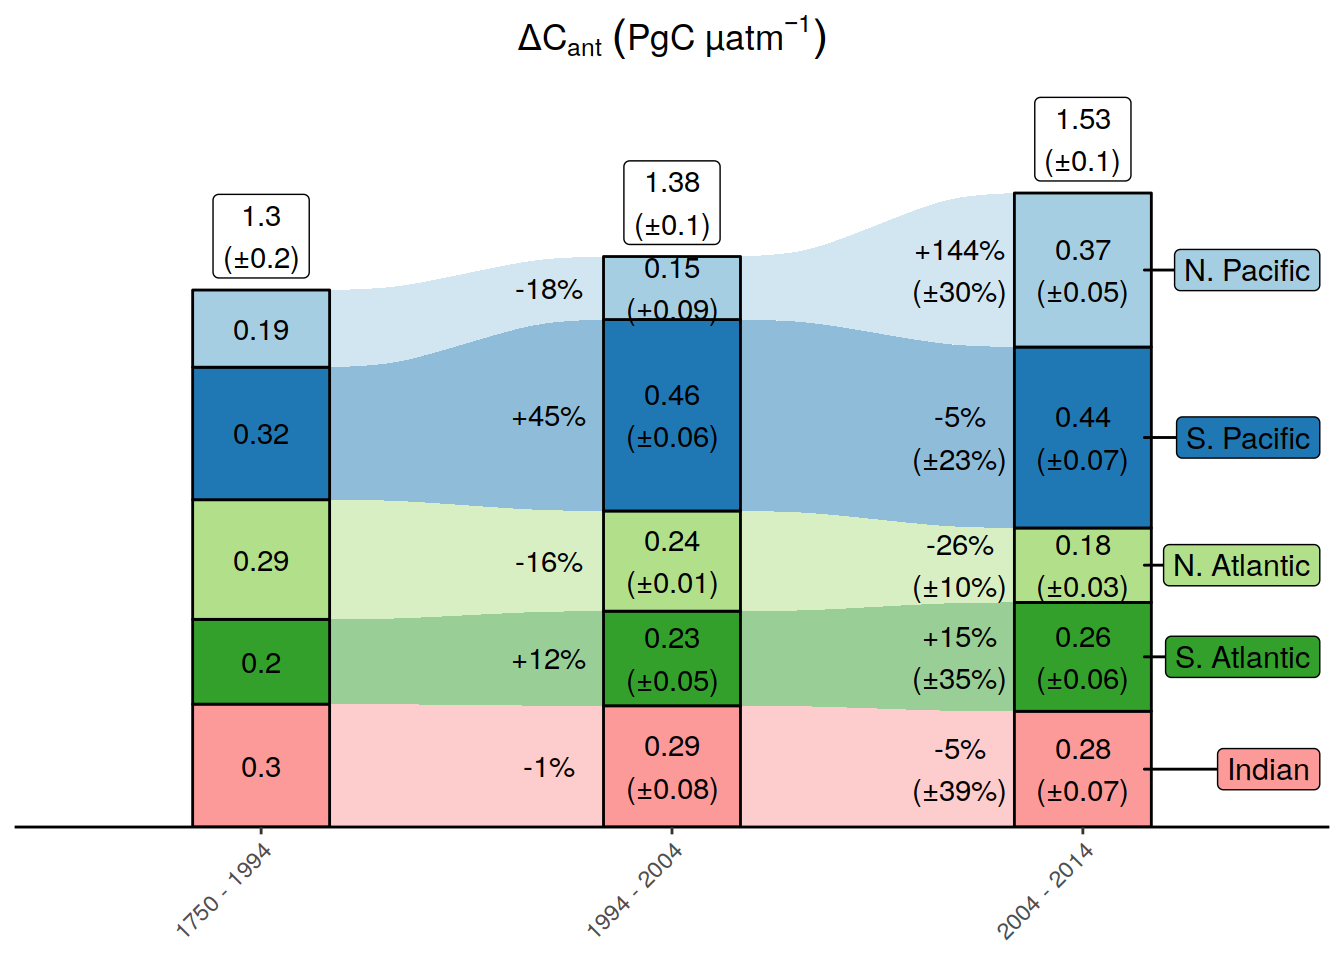
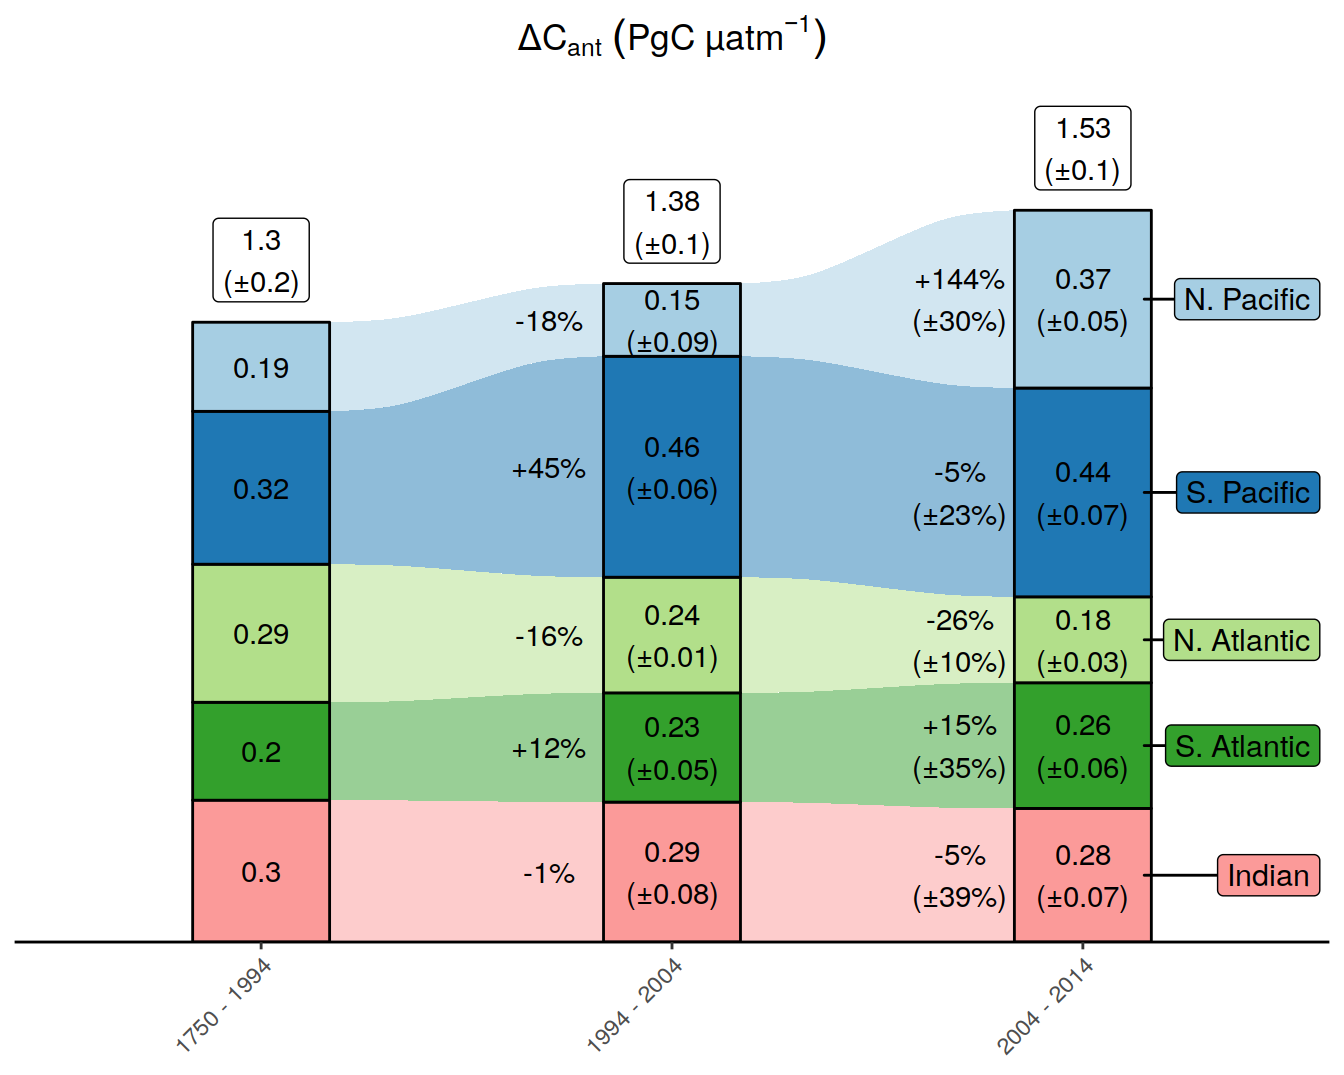
Build site.

diff --git a/docs/results_publication.html b/docs/results_publication.html
@@ -673,16 +673,16 @@ This reproducible <a href="https://rmarkdown.rstudio.com">R Markdown</a> analysi
 <div class="panel panel-default">
 <div class="panel-heading">
 <p class="panel-title">
-<a data-toggle="collapse" data-parent="#workflowr-checks" href="#strongRepositoryversionstrongahrefhttpsgithubcomjensdanielmuelleremlrobsanalysistree325da3a7626b6483c934242d5a44fa742d830be0targetblank325da3aa"> <span class="glyphicon glyphicon-ok text-success" aria-hidden="true"></span> <strong>Repository version:</strong> <a href="https://github.com/jens-daniel-mueller/emlr_obs_analysis/tree/325da3a7626b6483c934242d5a44fa742d830be0" target="_blank">325da3a</a> </a>
+<a data-toggle="collapse" data-parent="#workflowr-checks" href="#strongRepositoryversionstrongahrefhttpsgithubcomjensdanielmuelleremlrobsanalysistree6afd7b1cd820473a02e2bf3b345e03d2ffa11e44targetblank6afd7b1a"> <span class="glyphicon glyphicon-ok text-success" aria-hidden="true"></span> <strong>Repository version:</strong> <a href="https://github.com/jens-daniel-mueller/emlr_obs_analysis/tree/6afd7b1cd820473a02e2bf3b345e03d2ffa11e44" target="_blank">6afd7b1</a> </a>
 </p>
 </div>
[2 lines of base64/hex data omitted]
 <div class="panel-body">
 <p>
 Great! You are using Git for version control. Tracking code development and connecting the code version to the results is critical for reproducibility.
 </p>
 <p>
-The results in this page were generated with repository version <a href="https://github.com/jens-daniel-mueller/emlr_obs_analysis/tree/325da3a7626b6483c934242d5a44fa742d830be0" target="_blank">325da3a</a>. See the <em>Past versions</em> tab to see a history of the changes made to the R Markdown and HTML files.
+The results in this page were generated with repository version <a href="https://github.com/jens-daniel-mueller/emlr_obs_analysis/tree/6afd7b1cd820473a02e2bf3b345e03d2ffa11e44" target="_blank">6afd7b1</a>. See the <em>Past versions</em> tab to see a history of the changes made to the R Markdown and HTML files.
 </p>
 <p>
 Note that you need to be careful to ensure that all relevant files for the analysis have been committed to Git prior to generating the results (you can use <code>wflow_publish</code> or <code>wflow_git_commit</code>). workflowr only checks the R Markdown file, but you know if there are other scripts or data files that it depends on. Below is the status of the Git repository when the results were generated:
@@ -732,6 +732,40 @@ Message
 </tr>
 </thead>
 <tbody>
+<tr>
+<td>
+Rmd
+</td>
+<td>
+<a href="https://github.com/jens-daniel-mueller/emlr_obs_analysis/blob/6afd7b1cd820473a02e2bf3b345e03d2ffa11e44/analysis/results_publication.Rmd" target="_blank">6afd7b1</a>
+</td>
+<td>
+jens-daniel-mueller
+</td>
+<td>
+2022-02-04
+</td>
+<td>
+calculated uncertainty of basin budget changes
+</td>
+</tr>
+<tr>
+<td>
+html
+</td>
+<td>
+<a href="https://rawcdn.githack.com/jens-daniel-mueller/emlr_obs_analysis/fec5a1e407002c9982784a2d26fa59121b340bf8/docs/results_publication.html" target="_blank">fec5a1e</a>
+</td>
+<td>
+jens-daniel-mueller
+</td>
+<td>
+2022-02-04
+</td>
+<td>
+Build site.
+</td>
+</tr>
 <tr>
 <td>
 Rmd
@@ -6385,6 +6419,17 @@ Date
 </tr>
 </thead>
 <tbody>
+<tr>
+<td>
+<a href="https://github.com/jens-daniel-mueller/emlr_obs_analysis/blob/fec5a1e407002c9982784a2d26fa59121b340bf8/docs/figure/results_publication.Rmd/budgets_basins_hemisphere_alluvial_order_basin_scaled_incl_sabine_uncertainty-1.png" target="_blank">fec5a1e</a>
+</td>
+<td>
+jens-daniel-mueller
+</td>
+<td>
+2022-02-04
+</td>
+</tr>
 <tr>
 <td>
 <a href="https://github.com/jens-daniel-mueller/emlr_obs_analysis/blob/d2191adf7ee8c190568a83d969cd508b68cd18ae/docs/figure/results_publication.Rmd/budgets_basins_hemisphere_alluvial_order_basin_scaled_incl_sabine_uncertainty-1.png" target="_blank">d2191ad</a>
